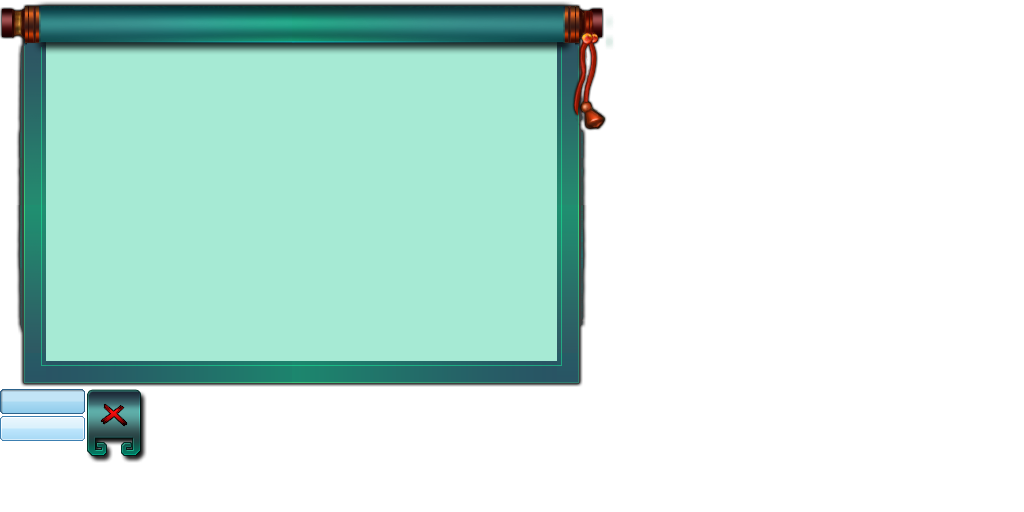
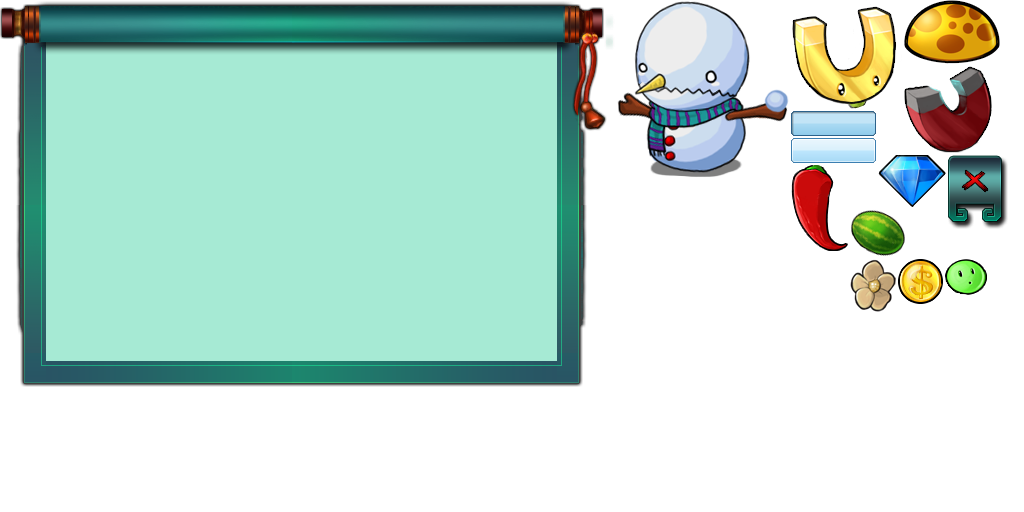
轮盘资源

Changed region(s): [[0.5938, 0.0, 1.0, 0.625], [0.0, 0.75, 0.1562, 0.9062]]

diff --git a/bin-debug/js/main.js b/bin-debug/js/main.js
@@ -635,11 +635,113 @@ if (!window.platform) {
 var GameLuck = /** @class */ (function (_super) {
     __extends(GameLuck, _super);
     function GameLuck() {
-        return _super.call(this) || this;
+        var _this = _super.call(this) || this;
+        _this.arr_img = [];
+        _this.num = 0;
+        _this.isjia = true;
+        _this.jsq = 0;
+        _this.point = []; //结果
+        _this.bitmapArr = [];
+        return _this;
     }
     GameLuck.prototype.onInit = function () {
         this.contentPane = fgui.UIPackage.createObject("GameOverPanel", "LuckWin").asCom;
         this.center();
+        this.lucnBtn = this.contentPane.getChild("btn_luck").asButton;
+        // this.arr_img = ["xg_png", "ct_png", "lj_png", "zs_png", "my_png", "mg_png", "hua_png", "yy_png", "jct_png", "xr_png"];
+        this.arr_img = ["xg", "ct", "lj", "zs", "my", "mg", "hua", "yy", "jct", "xr"];
+        this.setcircle();
+        this.lucnBtn.addEventListener(egret.TouchEvent.TOUCH_TAP, this.onbtnTap, this);
+        this.tim = new egret.Timer(500, 0);
+        this.tim.addEventListener(egret.TimerEvent.TIMER, this.Luckyanimation, this);
+    };
+    //抽奖动画特效
+    GameLuck.prototype.Luckyanimation = function () {
+        this.num++;
+        if (this.num >= this.arr_img.length)
+            this.num = 0;
+        this.creatfilter(this.bitmapArr[this.num == 0 ? this.arr_img.length - 1 : this.num - 1], this.bitmapArr[this.num]);
+        //实现由慢到快,再由快到慢的过程
+        // this.tim.delay-=10;
+        // console.log(this.tim.delay)
+        if (this.tim.delay > 30 && this.isjia) {
+            this.tim.delay -= 30;
+        }
+        else {
+            this.jsq++;
+        }
+        if (this.jsq >= 100) {
+            this.isjia = false;
+            this.tim.delay += 20;
+        }
+        if (!this.isjia && this.num == this.rad && this.tim.delay > 400) {
+            this.tim.stop();
+            this.lucnBtn.addEventListener(egret.TouchEvent.TOUCH_TAP, this.onbtnTap, this);
+        }
+    };
+    //获取随机出现的值
+    GameLuck.prototype.Getrandom = function () {
+        this.rad = Math.floor(Math.random() * this.arr_img.length);
+    };
+    //点击开始抽奖
+    GameLuck.prototype.onbtnTap = function () {
+        this.lucnBtn.removeEventListener(egret.TouchEvent.TOUCH_TAP, this.onbtnTap, this);
+        console.log('抽奖');
+        this.Getrandom();
+        this.tim.start();
+        this.isjia = true;
+        this.jsq = 0;
+    };
+    //设置滤镜
+    GameLuck.prototype.creatfilter = function (bitmap0, bitmap) {
+        var color = 0x33CCFF; /// 光晕的颜色，十六进制，不包含透明度
+        var alpha = 0.8; /// 光晕的颜色透明度，是对 color 参数的透明度设定。有效值为 0.0 到 1.0。例如，0.8 设置透明度值为 80%。
+        var blurX = 35; /// 水平模糊量。有效值为 0 到 255.0（浮点）
+        var blurY = 35; /// 垂直模糊量。有效值为 0 到 255.0（浮点）
+        var strength = 2; /// 压印的强度，值越大，压印的颜色越深，而且发光与背景之间的对比度也越强。有效值为 0 到 255。暂未实现
+        var quality = 3 /* HIGH */; /// 应用滤镜的次数，建议用 BitmapFilterQuality 类的常量来体现
+        var inner = false; /// 指定发光是否为内侧发光
+        var knockout = false; /// 指定对象是否具有挖空效果
+        var glowFilter = new egret.GlowFilter(color, alpha, blurX, blurY, strength, quality, inner, knockout);
+        bitmap0.filters = []; //先清除上一个的发光滤镜,再给当前图片添加
+        bitmap.filters = [glowFilter];
+    };
+    //画圆
+    GameLuck.prototype.setcircle = function () {
+        var width = this.displayListContainer.stage.stageWidth;
+        var height = this.displayListContainer.stage.stageHeight;
+        // this.getPoint(130, width / 2, height / 2, this.arr_img.length);
+        this.getPoint(130, 298, 190, this.arr_img.length);
+        console.log(this.point[2].x);
+        for (var i = 0; i < this.point.length; i++) {
+            // let img = new egret.Bitmap();
+            var img = fgui.UIPackage.createObject("GameOverPanel", this.arr_img[i]).asImage;
+            // img.texture = RES.getRes(this.arr_img[i]);
+            img.width = 40;
+            img.height = 40;
+            img.displayObject.anchorOffsetX = img.width / 2;
+            img.displayObject.anchorOffsetY = img.height / 2;
+            img.x = this.point[i].x;
+            img.y = this.point[i].y;
+            img.name = i + '';
+            this.displayListContainer.addChild(img.displayObject);
+            this.bitmapArr.push(img);
+        }
+    };
+    /**
+     * 求圆周上等分点的坐标
+     * @param r  圆的半径
+     * @param ox 圆心坐标x
+     * @param oy 圆心坐标y
+     * @param count 等分个数
+     */
+    GameLuck.prototype.getPoint = function (r, ox, oy, count) {
+        var radians = (Math.PI / 180) * Math.round(360 / count); //弧度
+        for (var i = 0; i < count; i++) {
+            var x = ox + r * Math.sin(radians * i);
+            var y = oy + r * Math.cos(radians * i);
+            this.point.unshift({ x: x, y: y }); //为保持数据顺时针
+        }
     };
     GameLuck.prototype.onShown = function () {
         // var list: fgui.GList = this.contentPane.getChild("list").asList;
